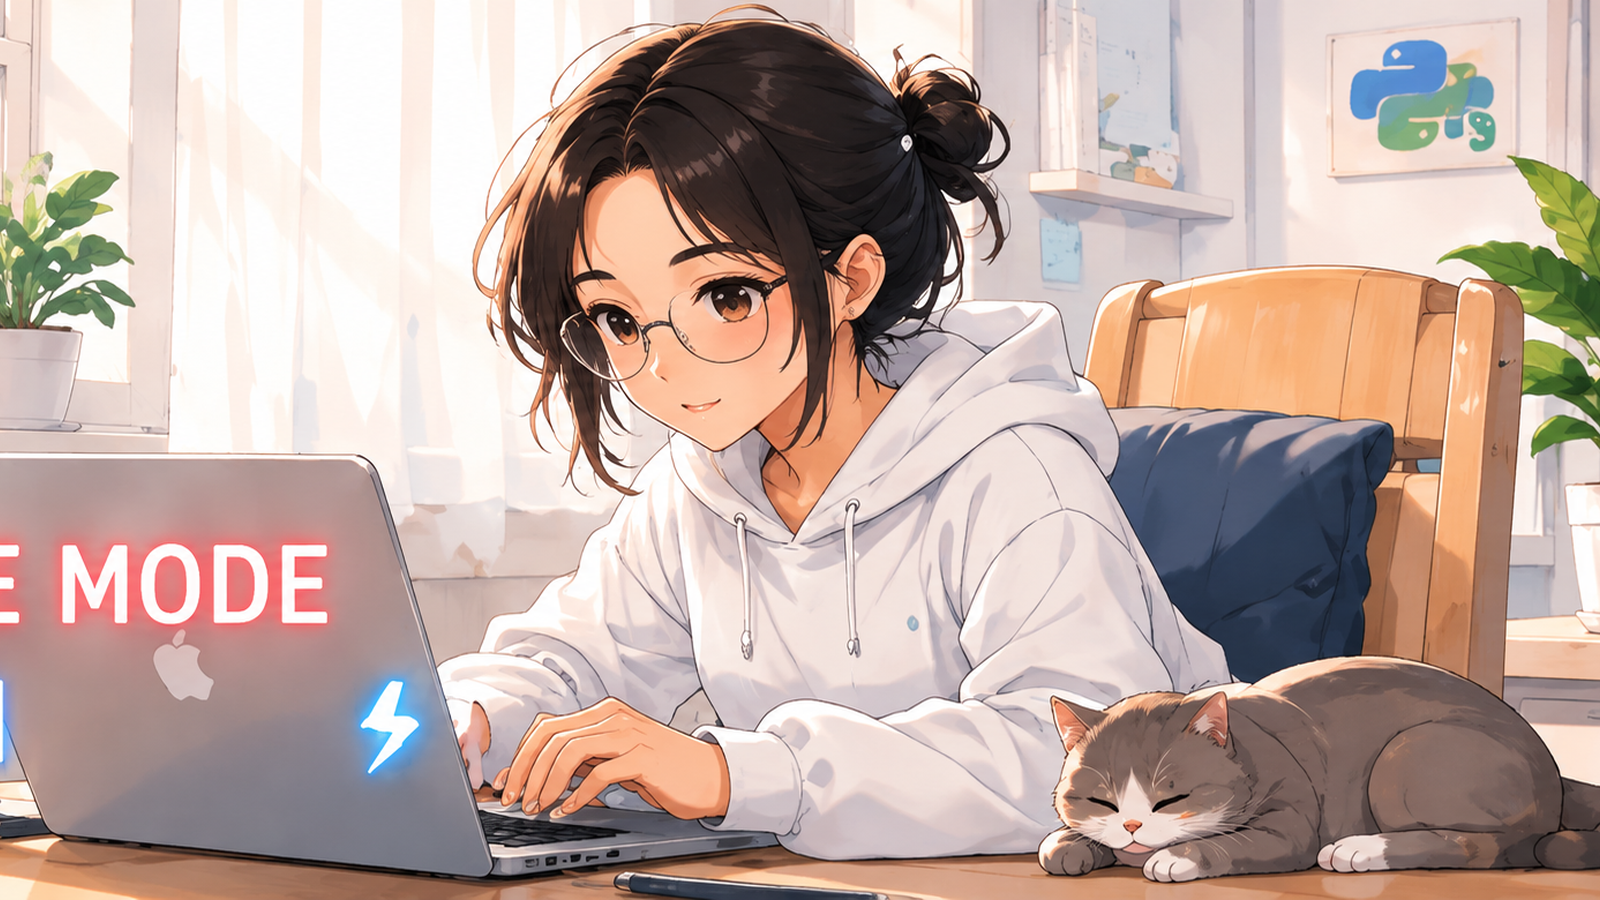
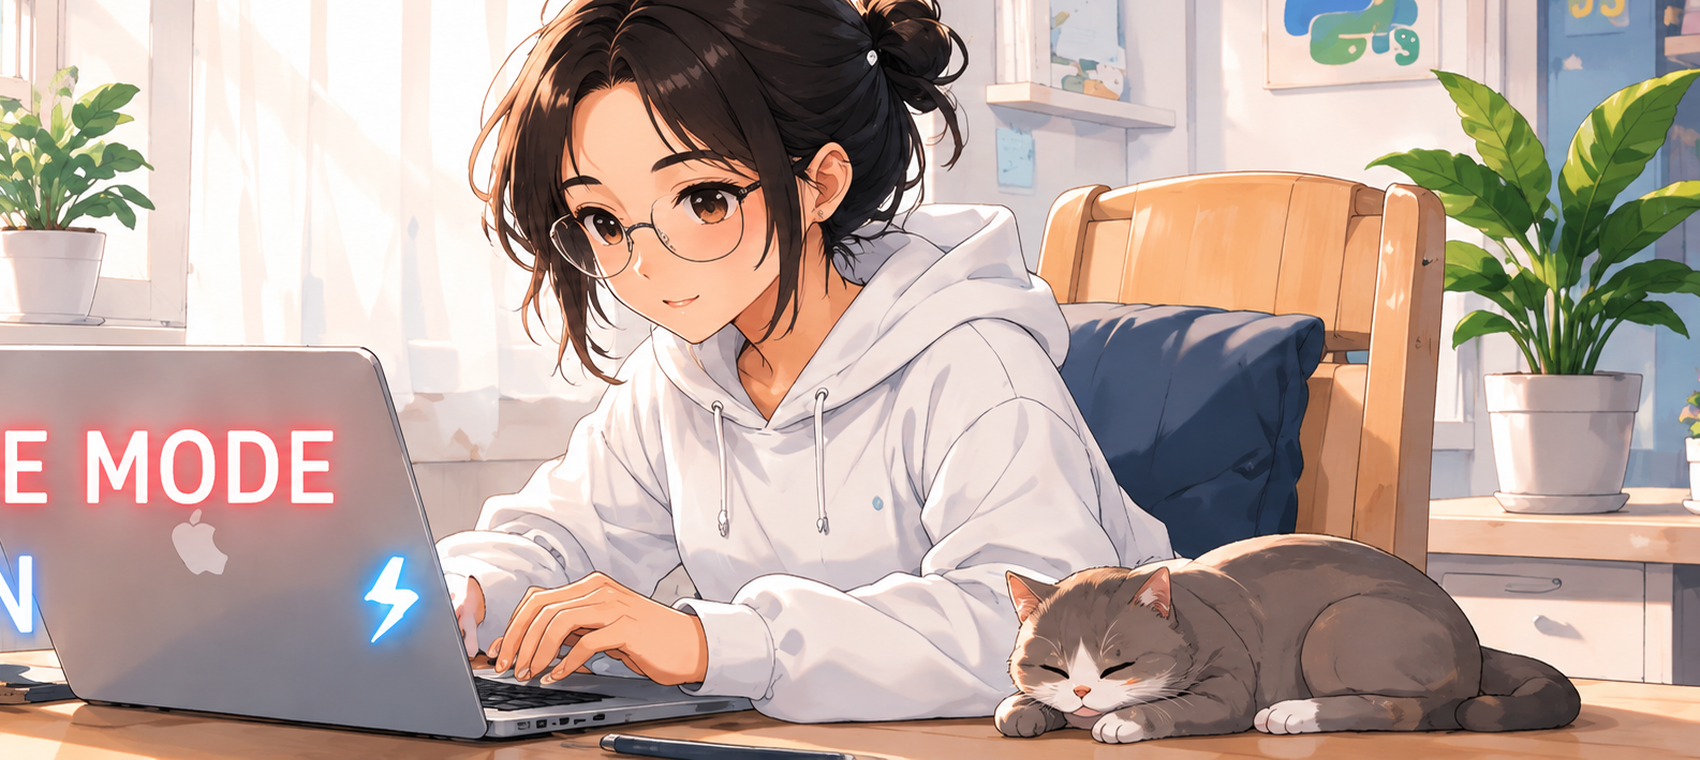
继续撑满 current focus 图片区域

diff --git a/README.md b/README.md
@@ -172,7 +172,7 @@ No activity tracked
 
 <table width="100%">
 <tr>
-<td width="30%" valign="top" align="left">
+<td width="26%" valign="top" align="left">
 
 ### What I'm Working On
 
@@ -187,7 +187,7 @@ No activity tracked
 - Staying open to collaboration and interesting ideas  
 
 </td>
-<td width="70%" align="center" valign="top">
+<td width="74%" align="center" valign="top">
 
 <img src="./assets/code-mode-focus.png" width="100%" alt="Code Mode" />
 
